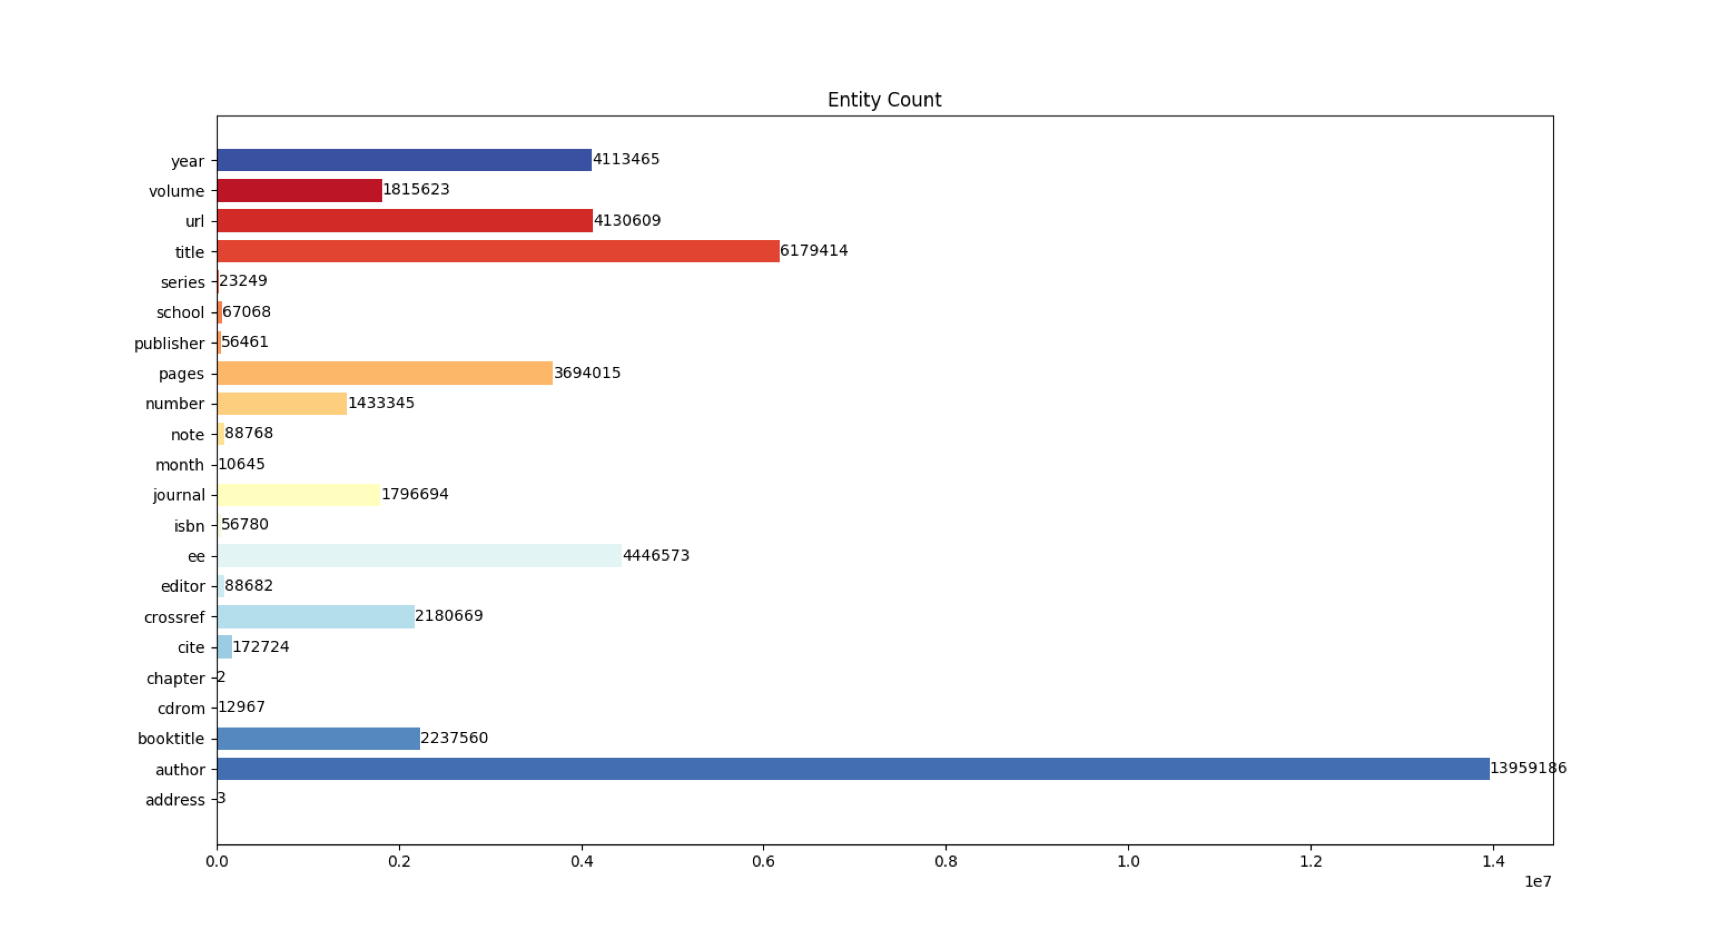
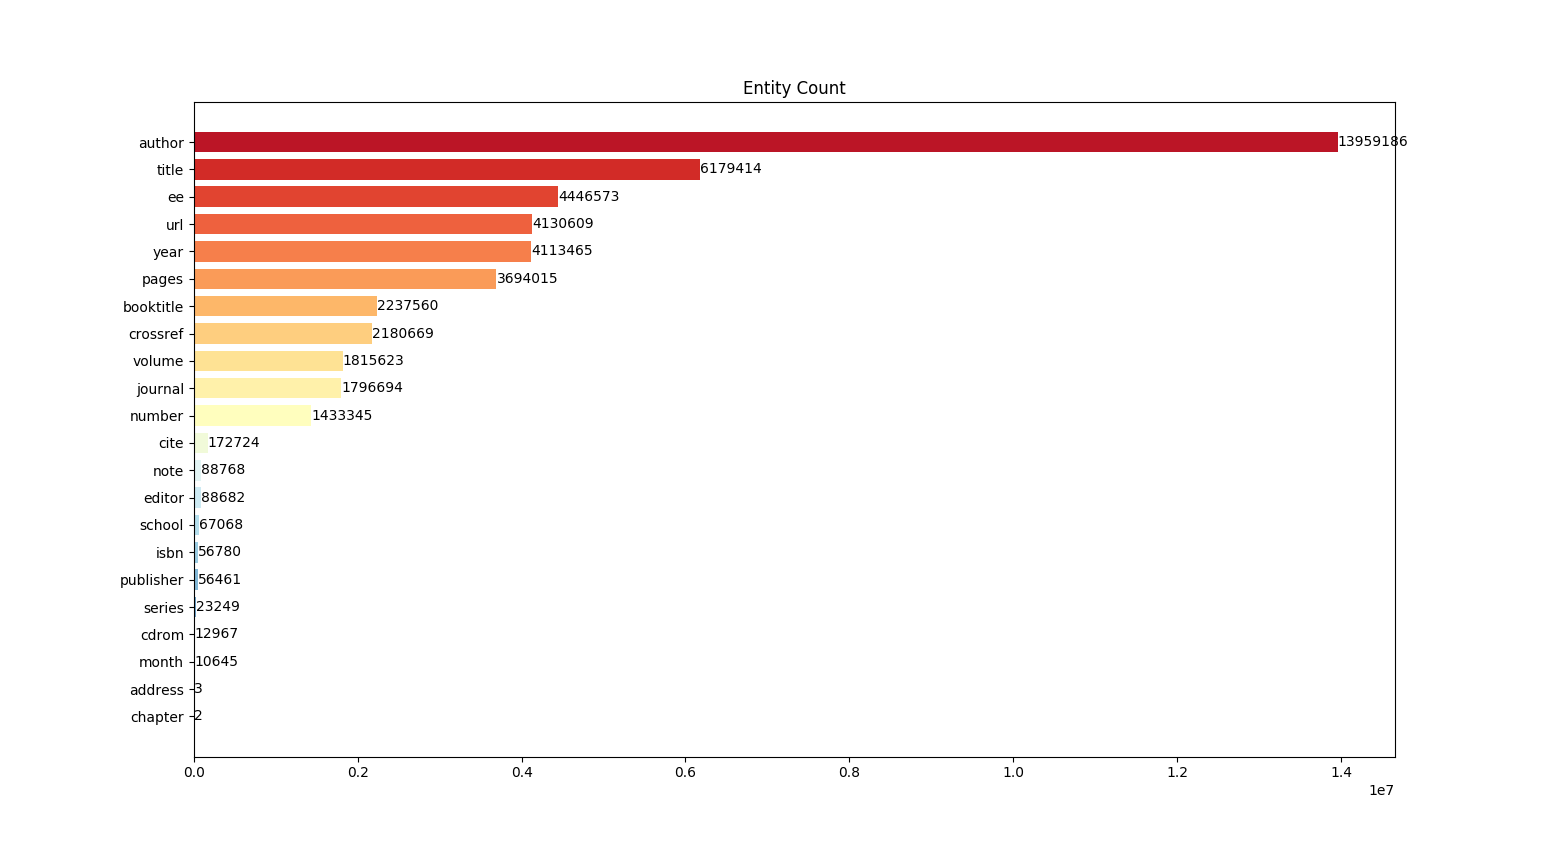
update

Changed region(s): [[0.0619, 0.1529, 0.929, 0.8565], [0.1239, 0.8871, 0.8981, 0.9482], [0.4645, 0.0918, 0.5574, 0.1224]]

diff --git a/src/plot.py b/src/plot.py
@@ -1,0 +1,36 @@
+import matplotlib.pyplot as plt
+import numpy as np
+from collections import OrderedDict
+
+elements = {'article': 1796920, 'book': 15039, 'incollection': 46750, 'inproceedings': 2153167, 'mastersthesis': 10,
+            'phdthesis': 64943, 'proceedings': 36625, 'www': 2066271}
+elements = OrderedDict(sorted(elements.items(), key=lambda t: t[1], reverse=False))
+
+entities = {'address': 3, 'author': 13959186, 'booktitle': 2237560, 'cdrom': 12967, 'chapter': 2, 'cite': 172724,
+            'crossref': 2180669, 'editor': 88682, 'ee': 4446573, 'isbn': 56780, 'journal': 1796694, 'month': 10645,
+            'note': 88768, 'number': 1433345, 'pages': 3694015, 'publisher': 56461, 'school': 67068, 'series': 23249,
+            'title': 6179414, 'url': 4130609, 'volume': 1815623, 'year': 4113465}
+entities = OrderedDict(sorted(entities.items(), key=lambda t: t[1], reverse=False))
+
+features = {'title': 1796920, 'author': 1786539, 'year': 1796914, 'journal': 1796690, 'pages': 1576971}
+features = OrderedDict(sorted(features.items(), key=lambda t: t[1], reverse=False))
+
+x = list(elements.keys())
+y = list(elements.values())
+elem_size = len(elements)
+
+color_map = plt.cm.get_cmap('RdYlBu_r')
+colors = [color_map((i/elem_size)) for i in range(0, elem_size)]
+
+fig, ax = plt.subplots()
+fig.set_size_inches(15.5, 8.5)
+width = 0.75  # the width of the bars
+ind = np.arange(len(y))  # the x locations for the groups
+ax.barh(ind, y, width, color=colors)
+ax.set_yticks(ind)
+ax.set_yticklabels(x, minor=False)
+plt.title('Entity Count')
+for i, v in enumerate(y):
+    ax.text(v, i, str(v), color='black', va='center')
+fig.savefig('elements.png', dpi=100)
+plt.show()
